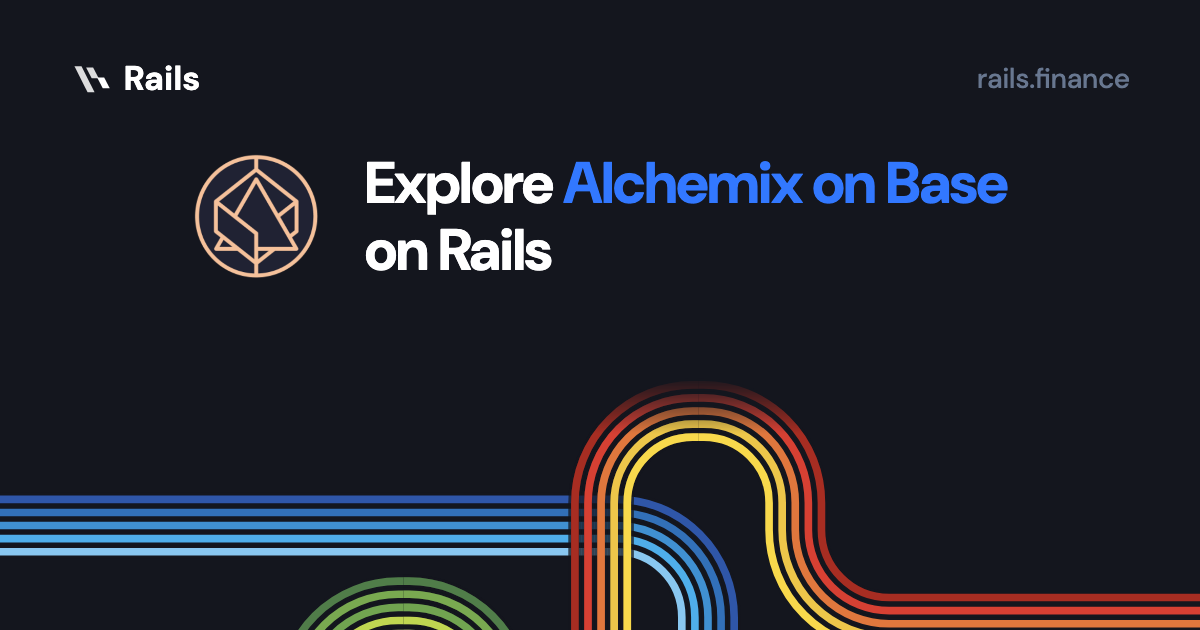
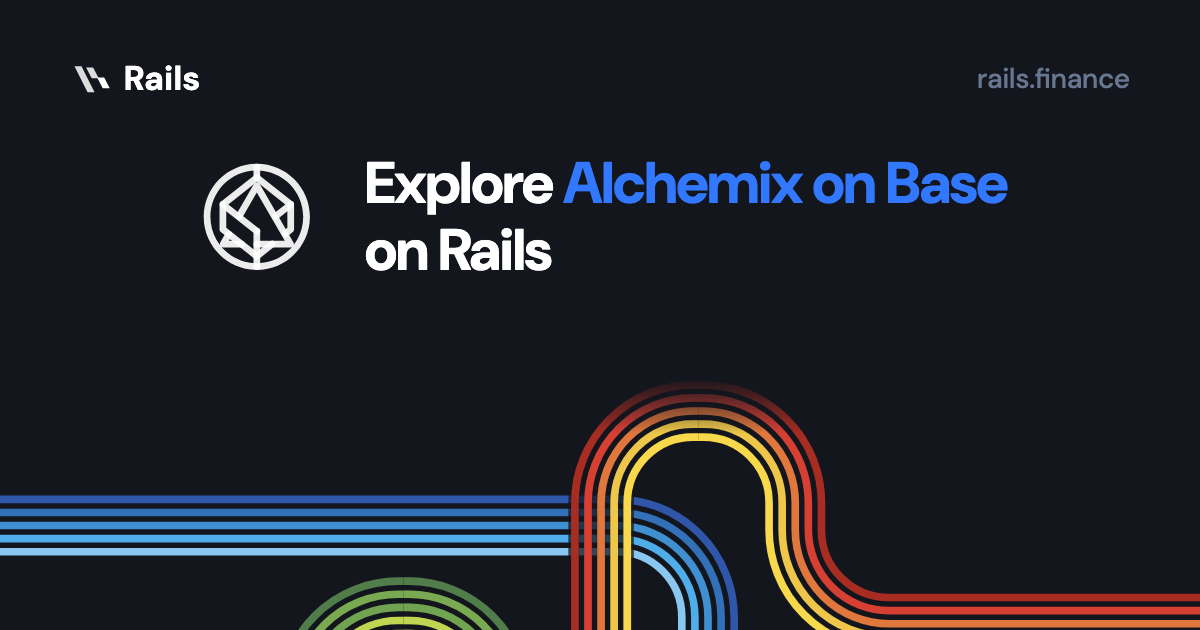
og: regenerate the home share card off the launched roster
public/og/home.png hadn't changed since the repo was seeded — it still named
two protocols by hand while og:image:alt already claimed the current count.
scripts/generate-og.mjs already read the roster for this card, but it counted
every SPECS entry, including the two unlaunched vault-layer rows, so its
count (31) never matched app/layout.tsx's LAUNCHED_PROTOCOLS-based claim (29).
readRoster() now reads each SPECS entry whole and marks `unlaunched: true`
entries; the home card counts and tiles only the launched roster, while each
explorer still gets its own card off the full roster.

app/layout.tsx now points og:image/twitter:image at a content-hashed filename
(home-c9f0b163.png) so Discord/X/Telegram/Slack fetch the new card instead of
serving a cached copy of the old one. home.png itself is kept at its original
path and regenerated in place — other pages (about/architecture, terms,
privacy, blog, coverage) still reference that literal path.

explore-aave-v4-base.png, explore-alchemix-base.png and explore-alchemix.png
also changed: they now render the monochrome glyph added to
protocol-glyphs.tsx since the seed, in place of the stale colour-PNG fallback.

Claude-Session: https://claude.ai/code/session_011QbKwMq4GFDfcCzNbqp3NT

Changed region(s): [[0.1542, 0.2413, 0.2775, 0.4524]]

diff --git a/app/layout.tsx b/app/layout.tsx
@@ -51,7 +51,7 @@ export const viewport: Viewport = {
 // pages (/coverage/<chain>, off lib/shared/coverage.ts) are the one place that
 // states it, so the share copy points there rather than flattening the
 // difference into a blanket claim.
-// The card itself: `scripts/generate-og-home.mjs` → public/og/home.png.
+// The card itself: `scripts/generate-og.mjs` → public/og/home.png.
 //
 // LAUNCHED explorers only, and launched chains only. This copy is the site's
 // own coverage claim: a count that included an explorer nothing links, or a
@@ -107,7 +107,12 @@ export const metadata: Metadata = {
     siteName: "Rails",
     images: [
       {
-        url: "/og/home.png",
+        // Content-hashed: Discord/X/Telegram/Slack cache a link preview by
+        // image URL, so a regenerated card needs a new URL to be fetched
+        // fresh rather than served stale from their cache. Bump the hash
+        // (`shasum -a 256 public/og/home.png | cut -c1-8`) whenever
+        // `node scripts/generate-og.mjs` changes this file's bytes.
+        url: "/og/home-c9f0b163.png",
         width: 1200,
         height: 630,
         alt: `Explore ${EXPLORER_COUNT} DeFi protocols on Rails`,
@@ -118,7 +123,7 @@ export const metadata: Metadata = {
     card: "summary_large_image",
     title: SITE_TITLE,
     description: OG_DESCRIPTION,
-    images: ["/og/home.png"],
+    images: ["/og/home-c9f0b163.png"],
     creator: TWITTER_HANDLE,
     site: TWITTER_HANDLE,
   },
